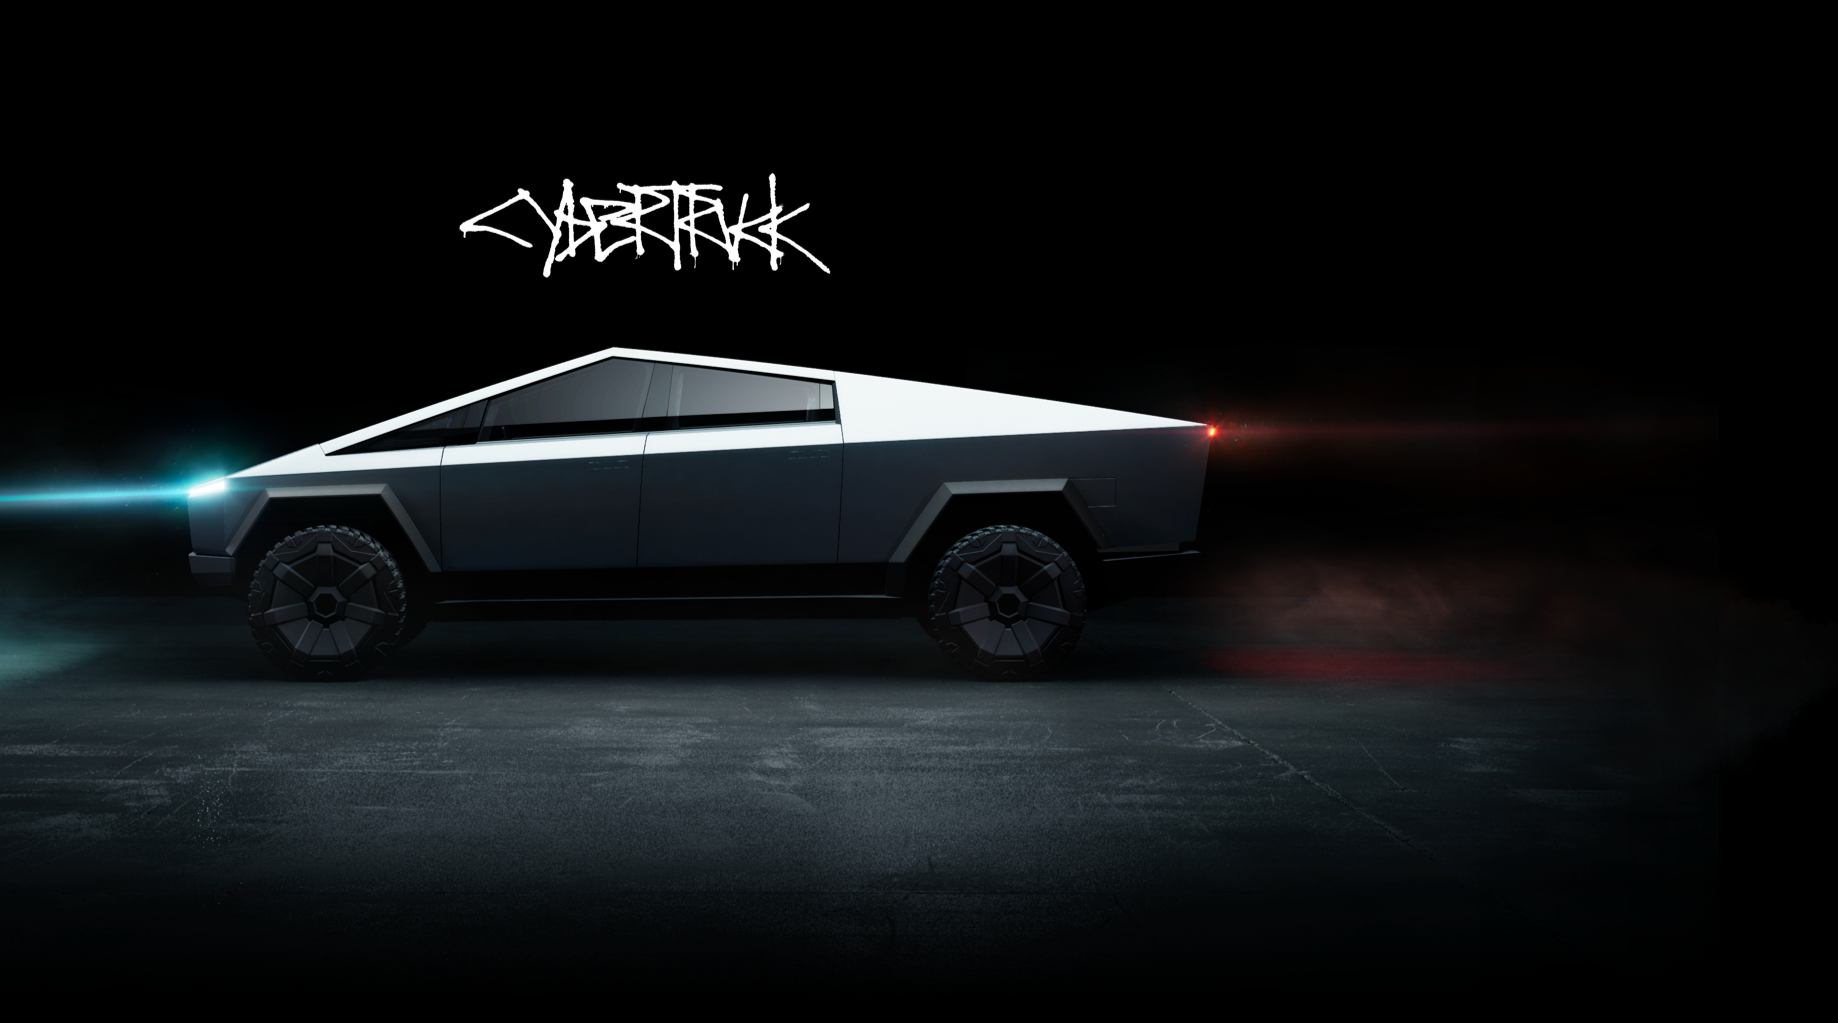
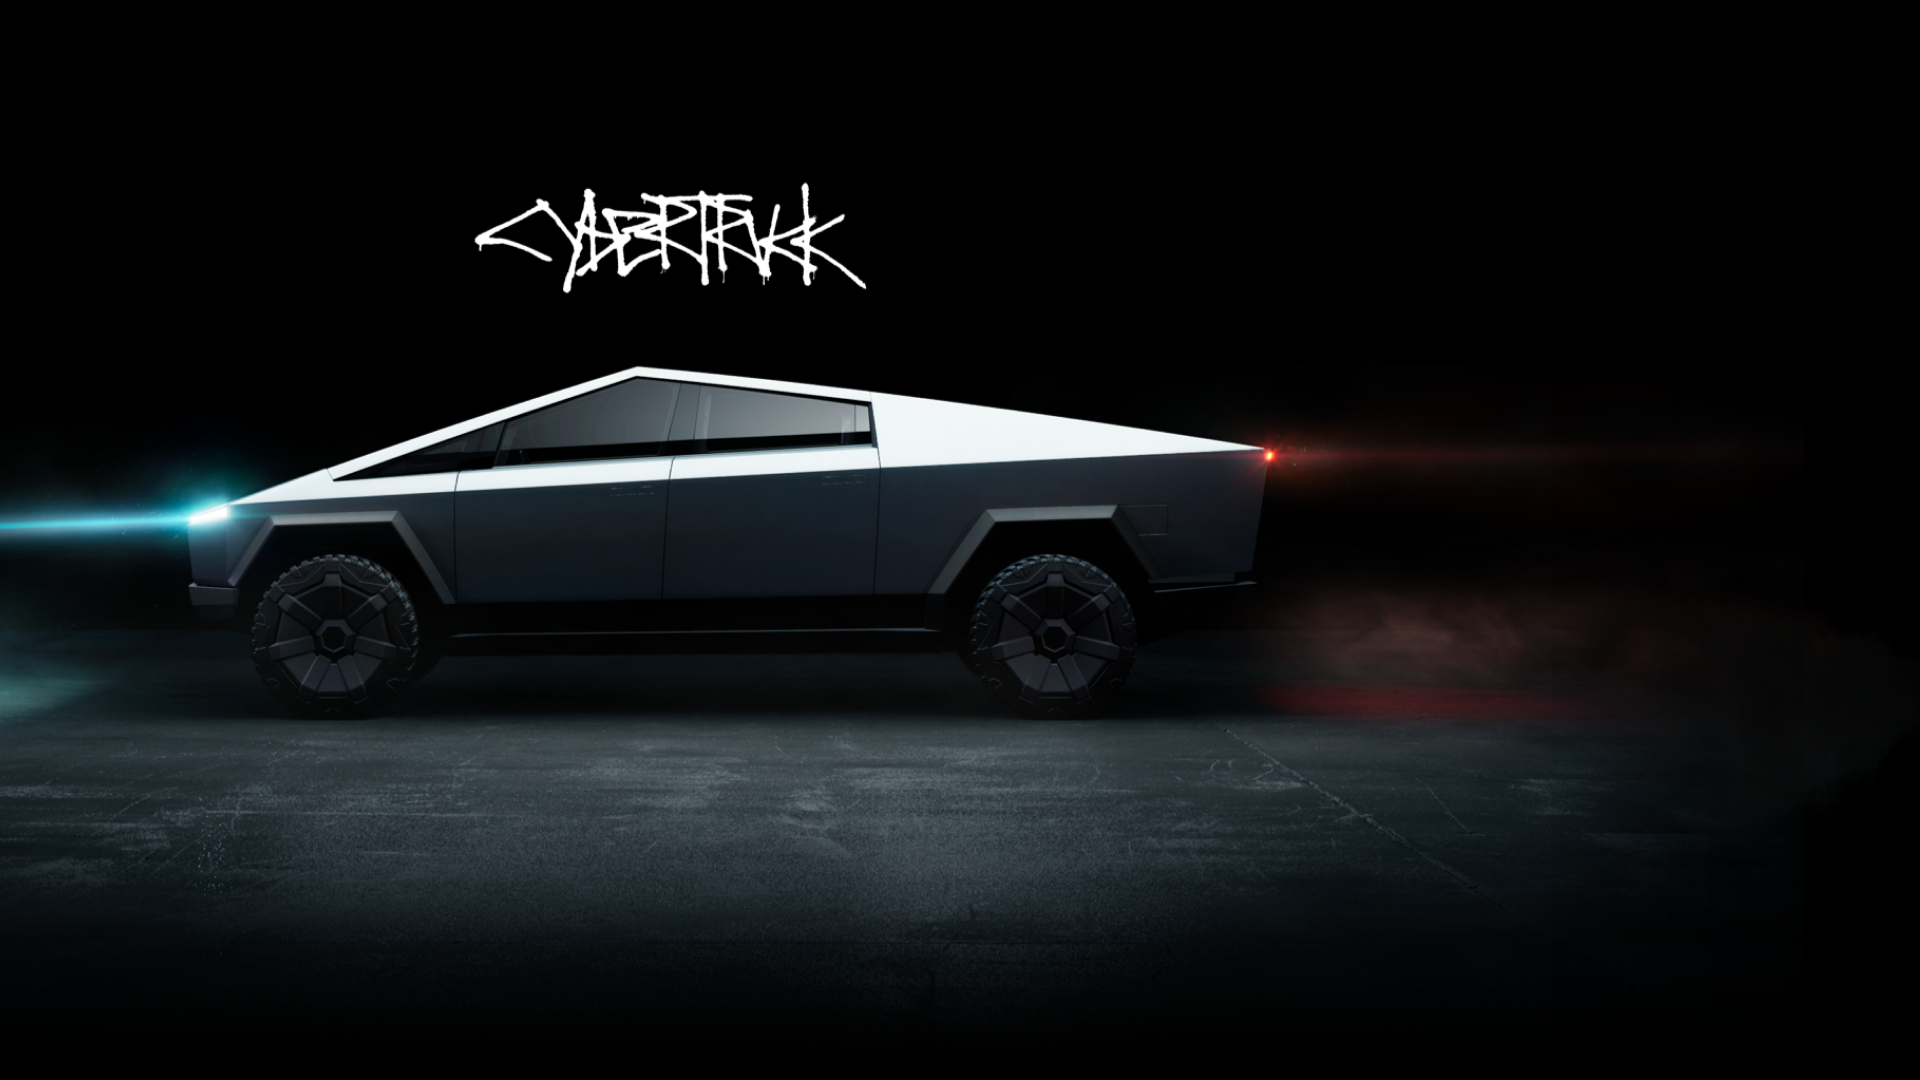
made responsive

diff --git a/css/main.css b/css/main.css
@@ -222,6 +222,117 @@
   font-size: 16px;
 }
 
+@media (max-width: 1025px)
+{
+  .main-content {
+    margin-top: 400px;
+    display: grid;
+    justify-content: center;
+    flex-direction: column
+  }
 
+  .main-content .main-content-heading {
+    color: #ffffff;
+    font-weight: 700;
+    display: grid;
+    justify-content: center;
+    font-size: 25px;
+    letter-spacing: 3px;
+    margin-right: 0px;
+  }
 
+  .main-content .active2 a {
+    color: #e3e3e3;
+    font-weight: 700;
+    font-size: 15px;
+    margin-right: 0px;
+    letter-spacing: 2px;
+    text-decoration: none;
+  }
+
+  .main-content .listItemsContainer a {
+    color: #454545;
+    font-weight: 700;
+    font-size: 15px;
+    margin-right: 0px;
+    letter-spacing: 2px;
+    text-decoration: none;
+  }
+
+  .main-content .listItemsContainer a:hover {
+    color: #e3e3e3;
+    font-weight: 700;
+    font-size: 15px;
+    margin-right: 0px;
+    letter-spacing: 2px;
+    text-decoration: none;
+  }
+
+  .main-content2 {
+    margin-top: 50px;
+    display: grid;
+    justify-content: center;
+    flex-direction: column;
+    color: white;
+  }
+
+  .main-content2 .listItemsContainer a {
+    color: #454545;
+    font-weight: 700;
+    font-size: 15px;
+    margin-right: 0px; 
+    letter-spacing: 2px;
+    text-decoration: none;
+  }
+
+  .main-content2 .listItemsContainer a:hover {
+    color: #e3e3e3;
+    font-weight: 700;
+    font-size: 15px;
+    margin-right: 0px;
+    letter-spacing: 2px;
+    text-decoration: none;
+  }
+
+  .main-content3 {
+    margin-top: 80px;
+    display: grid;
+    justify-content: center;
+    flex-direction: column;
+  }
+  .main-content3 .listItemsContainer p {
+    color: #e3e3e3;
+    font-weight: 700;
+    font-size: 20px;
+    margin-right: 0px;
+    margin-bottom: 20px;
+    letter-spacing: 2px;
+    text-decoration: none;
+  }
+  .main-content4 {
+    margin-top: 50px;
+    display: grid;
+    justify-content: center;
+    flex-direction: column;
+  }
+
+  .main-content4 .listItemsContainer button {
+    color: white;
+    margin-right: 0px;
+    font-size: 15px;
+    padding-left: 140px;
+    padding-right: 140px;
+    padding-top: 10px;
+    padding-bottom: 10px;
+    background-color: transparent;
+    border: 2px solid white;
+  }
+  .main-content5 {
+    margin-top: 10px;
+    margin-right: 0px;
+    display: grid;
+    justify-content: center;
+    flex-direction: column;
+  }
+}
 

diff --git a/css/styles.css b/css/styles.css
@@ -8,14 +8,20 @@
   font-weight: 700;
 }
 
+body{
+  padding: 10px;
+  background-image: url(../images/background.png);
+  background-repeat: no-repeat;
+  background-size: cover;
+  background-position: center, center;
+  background-attachment: fixed;
+}
+
 section {
   position: relative;
-  width: 100%;
-  height: 100vh;
+  max-width: 100%;
+  height: auto;
   justify-content: space-between;
-  background: url(../images/background.png) no-repeat center center fixed;
-  background-size: cover;
-  padding: 10px;
 }
 
 header {
@@ -45,4 +51,75 @@ header ul li a {
   font-weight: 800;
   margin-right: 30px;
   margin-top: 5px;
+}
+
+@media (max-width:1520px)
+{
+  body{
+    padding: 10px;
+    background-image: url(../images/background2.png);
+    background-repeat: no-repeat;
+    background-size: cover;
+    background-position: center, center;
+    background-attachment: fixed;
+  }
+}
+
+@media (max-width:1390px)
+{
+  body{
+    padding: 10px;
+    background-image: url(../images/background3.png);
+    background-repeat: no-repeat;
+    background-size: cover;
+    background-position: center, center;
+    background-attachment: fixed;
+  }
+}
+
+@media (max-width:1220px)
+{
+  body{
+    padding: 10px;
+    background-image: url(../images/background4.png);
+    background-repeat: no-repeat;
+    background-size: cover;
+    background-position: center, center;
+    background-attachment: fixed;
+  }
+}
+
+@media (max-width:1120px)
+{
+  body{
+    padding: 10px;
+    background-image: url(../images/background5.png);
+    background-repeat: no-repeat;
+    background-size: cover;
+    background-position: center, center;
+    background-attachment: fixed;
+  }
+}
+
+@media (max-width:1025px)
+{
+  body{
+    padding: 10px;
+    background-image: url(../images/background6.png);
+    background-repeat: no-repeat;
+    background-size: cover;
+    background-position: top;
+    background-attachment: fixed;
+  }
+}
+
+@media (max-width: 580px) {
+  body{
+    padding: 10px;
+    background-image: url(../images/background7.png);
+    background-repeat: no-repeat;
+    background-size: cover;
+    background-position: top;
+    background-attachment: fixed;
+  }
 }

diff --git a/index.html b/index.html
@@ -2,6 +2,8 @@
 <html lang="en">
   <head>
     <meta charset="UTF-8">
+   <meta name="viewport" content="width=device-width, initial-scale=1.0">
+
     <title>Design Your Cybertruck | Tesla</title>
     <link rel="shortcut icon" href="./images/favicon.ico" /> 
     <link rel="stylesheet" href="./css/styles.css">
